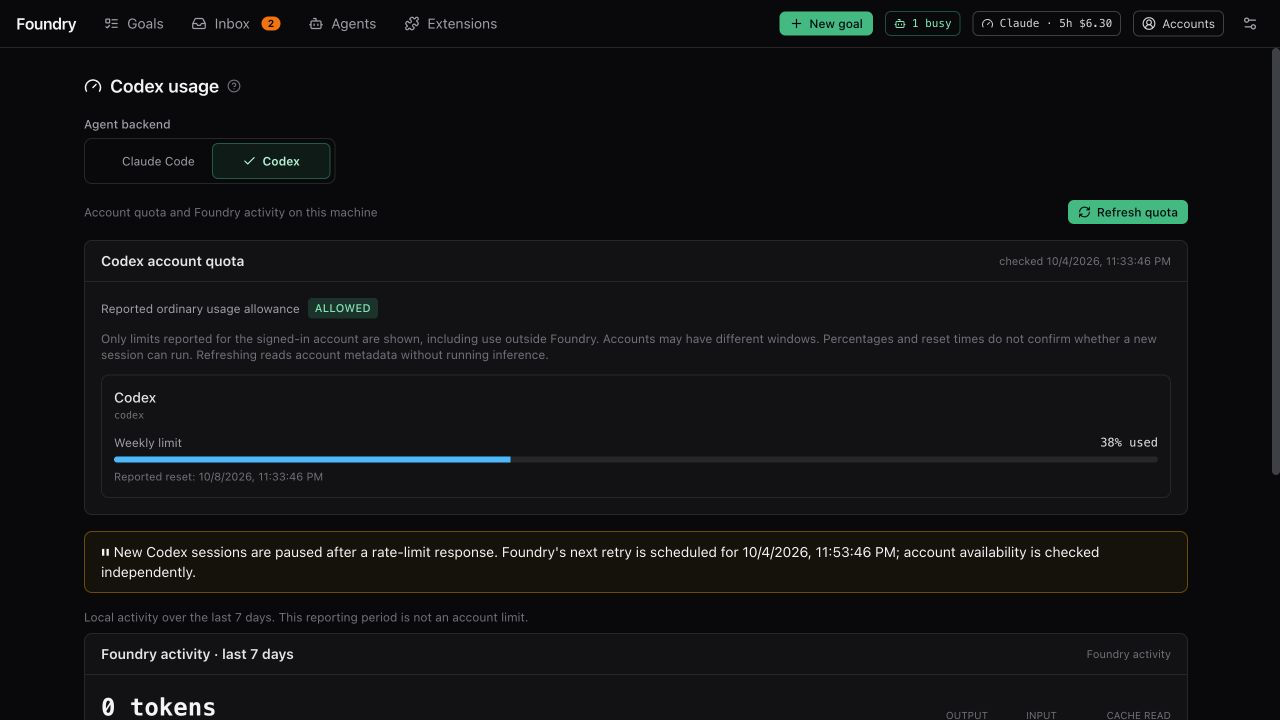
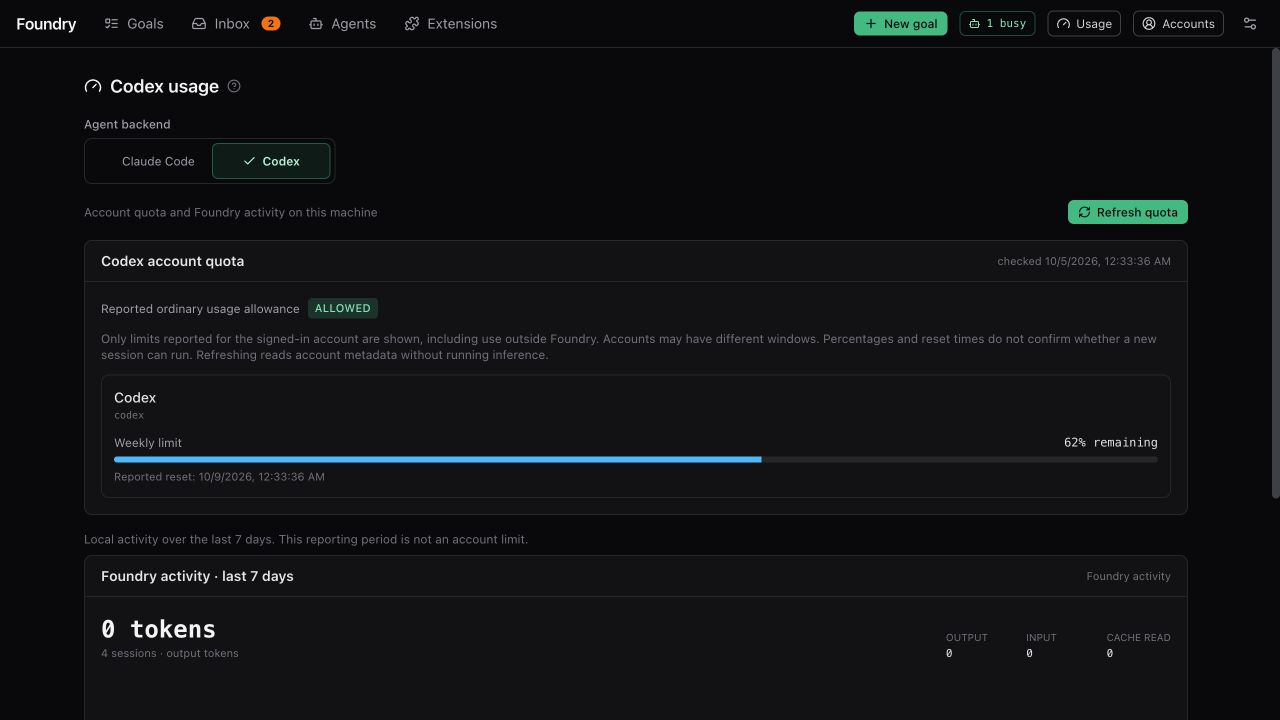
docs: refresh shared workflow guides and demo screenshots

diff --git a/scripts/demo.ts b/scripts/demo.ts
@@ -346,6 +346,7 @@ class DemoRunner implements ClaudeRunner {
     const label = spec.label ?? '';
     let structuredOutput: unknown = null;
     if (label.startsWith('classify nature')) structuredOutput = { nature: 'code' };
+    else if (label.startsWith('planner ')) structuredOutput = { tasks: landingBrief.tasks };
     // a goal with an interview answers in the interview shape; one without gets the bare Brief
     else if (label.startsWith('clarify')) structuredOutput = spec.prompt.includes('dark mode') ? interviewRound : spec.prompt.includes('# Interview before the Brief') ? { questions: [], brief: landingBrief } : landingBrief;
     const title = label.startsWith('attempt') ? label.slice('attempt '.length).replace(/ #\d+.*$/, '') : '';
@@ -361,7 +362,7 @@ class DemoRunner implements ClaudeRunner {
     const result: RunResult = { sessionId, subtype: 'success', isError: false, costUsd: 0.42, numTurns: 7, durationMs: 90_000, usage: null, modelUsage: null, permissionDenials: [], finalText: title ? `Done: ${title}. The change is in place with its tests; bun test passes (14 tests) and the build is clean.` : 'done', structuredOutput, exitCode: 0, pid: null, rateLimit: null, errorMessage: null, skillsUsed: [], toolsUsed: {} };
     const events: RunnerEvent[] = title ? workerEvents(title, result.sessionId!, result, spec.cwd) : [
       { kind: 'hook', name: 'SessionStart:startup', outcome: 'success' },
-      { kind: 'init', sessionId: result.sessionId!, model: 'claude-opus-5', tools: [], raw: {} },
+      { kind: 'init', sessionId: result.sessionId!, model: spec.model ?? null, tools: [], raw: {} },
       { kind: 'text', text: label.startsWith('attempt') ? 'Reading the layout and the existing components, then writing the section and its test.' : 'Exploring the repository…' },
       { kind: 'tool_use', id: 't1', name: 'Read', input: { file_path: 'src/app/layout.tsx' } },
       { kind: 'result', result },
@@ -448,7 +449,11 @@ export async function startDemo(): Promise<{ url: string; goals: Record<string, 
   const repo = join(tmp, 'studio-site');
   await Bun.$`mkdir -p ${repo}`.quiet();
   await makeRepo(repo);
-  const engine = new Engine(defaultConfig(ROOT, { dataDir: join(tmp, 'data'), claudeHome: join(tmp, 'claude-home'), codexHome: join(tmp, 'codex-home'), port: DEMO_PORT, alwaysReviewTasks: false, autoskills: false, log: () => {} }), new DemoRunner());
+  const engine = new Engine(defaultConfig(ROOT, { provider: 'claude', dataDir: join(tmp, 'data'), claudeHome: join(tmp, 'claude-home'), codexHome: join(tmp, 'codex-home'), port: DEMO_PORT, alwaysReviewTasks: false, autoskills: false, log: () => {} }), new DemoRunner());
+  // Keep shared Codex skills isolated as well as its native home.
+  const skills = engine.skillsForProvider('codex');
+  skills.paths.agentsSkillsDir = join(tmp, '.agents', 'skills');
+  skills.paths.agentsLock = join(tmp, '.agents', '.skill-lock.json');
   // the completion's graph refresh reports graphify and gitnexus as run, without touching this machine's tools
   engine.graphRefreshDeps = { which: (n) => `/usr/local/bin/${n}`, exec: async () => ({ code: 0, stdout: '', stderr: '' }) as never };
   const server = startServer(engine, { webDist: join(ROOT, 'apps/web/dist') });
@@ -473,7 +478,7 @@ export async function startDemo(): Promise<{ url: string; goals: Record<string, 
   await waitFor(() => ['done', 'over_delivered'].includes(state(done.id)));
   await recordMergedDelivery(engine, done.id);
   const interview = await engine.createGoal({ prompt: 'Add a dark mode toggle to the settings page', repoPath: repo, interview: 'always', workflow: { pace: 'fast' } });
-  const brief = await engine.createGoal({ prompt: 'A landing page for our game studio', title: 'Studio landing page', repoPath: repo, interview: 'never', workflow: { pace: 'fast' } });
+  const brief = await engine.createGoal({ prompt: 'A landing page for our game studio', title: 'Studio landing page', provider: 'codex', repoPath: repo, interview: 'never', workflow: { pace: 'fast' } });
   const milestone = await engine.createGoal({ prompt: 'Studio site: hero and value cards', title: 'Studio site — first look', repoPath: repo, brief: briefFrom(landingBrief, landingBrief.tasks.slice(0, 3)) as never, workflow: { pace: 'fast' } });
   const running = await engine.createGoal({
     prompt: 'Add CSV export to the orders page, with the date range the user is looking at.',

diff --git a/docs/develop/codex-validation.md b/docs/develop/codex-validation.md
@@ -1,6 +1,6 @@
 # Codex integration validation
 
-This record retains the PR #52 baseline and records the post-merge account-discovery and skill-catalog follow-up. It describes evidence for the shared Claude/Codex implementation, not a guarantee that every account, native CLI version or container host behaves identically. Current setup and capability limits are in [the operator guide](../operate/codex.md).
+This record retains the PR #52 baseline and records the post-merge account-discovery, skill-catalog and shared-interface follow-ups. It describes evidence for the shared Claude/Codex implementation, not a guarantee that every account, native CLI version or container host behaves identically. Current setup and capability limits are in [the operator guide](../operate/codex.md).
 
 ## Repeatable checks
 
@@ -22,7 +22,7 @@ The full test command includes package, CLI and web regressions; plain `bun test
 - The documentation/UI/pause follow-up passed **540 tests, 0 failures, 2,824 assertions across 87 files**, plus backend/frontend type checking and the production web build. The existing Vite large-chunk warning remains. Generated references are unchanged after regeneration; all 61 Markdown files checked have valid local file links.
 - The pre-documentation/UI baseline (`4c88e2b`) passed 536 tests with 2,797 assertions, type checking and the production web build. Its focused Linux container run passed 54 tests with 283 assertions across eight files.
 - Regression fixtures cover immutable goal providers, replay/migration, independent native accounts and login races, shared concurrency, provider-specific quota pauses, weekly-only/custom/unknown quota windows, captured presets and explicit follow-up overrides, model discovery/fallback, MCP permissions and recovery, native plugins, external history, structured output, resume and owned process cleanup.
-- Native smoke checks exercised ChatGPT account/quota reads and structured new/resumed sessions with host CLI `0.158.0-alpha.2`. Native plugin list/install/refresh/remove checks passed in an isolated local fixture marketplace on the host and Docker-pinned `0.160.0` CLI. A metadata-only account check confirmed a weekly-only account shape (two 10,080-minute groups, no short window) without capturing identity or usage percentages. Populated external history uses protocol fixtures; the native history smoke covered an isolated empty home. The Docker build pins the latter version; this does not imply every future CLI protocol is compatible.
+- Native smoke checks exercised ChatGPT account/quota reads and structured new/resumed sessions with host CLI `0.158.0-alpha.2`. Native plugin list/install/refresh/remove checks passed in an isolated local fixture marketplace on the host and Docker-pinned `0.160.0` CLI. A metadata-only account check confirmed a weekly-only account shape (two 10,080-minute groups, no short window) without capturing identity or usage percentages. At this baseline, populated external history used protocol fixtures and the native history smoke covered an isolated empty home; see the terminal-handshake follow-up below for the later populated native listing check. The Docker build pins the latter version; this does not imply every future CLI protocol is compatible.
 - Browser checks use temporary repositories and fixture identities/quota. Guide screenshots show examples, not a measurement of a personal account. The UI follow-up checks Setup, Settings, Extensions, Usage and New goal with the shared backend selector, native keyboard navigation and padded select arrows in light/dark themes and at narrow widths.
 - The UI follow-up also adds provider-specific health pause data and verifies notification names/links against mixed-provider and legacy events. Retry times are not described as guaranteed account resets.
 
@@ -34,6 +34,16 @@ The full test command includes package, CLI and web regressions; plain `bun test
 - **24 real git skill installations** succeeded in disposable native homes: eight Matt Pocock skills plus frontend-design, webapp-testing, Impeccable and the appropriate skill-creator for each backend. Checks verified SKILL.md and the exact installed source marker path. No downloaded skill scripts were executed; this validates installation and dependencies documented by inspection, not every skill’s runtime workflow.
 - Upstream snapshots: `mattpocock/skills` at `24fe0ef7737efae15c87225755e9f6f5965e4888`, `anthropics/skills` at `8a1541c4a3ffa5a20a5a91de0dcf3f0bab1d1ef4`, `openai/skills` at `49f948faa9258a0c61caceaf225e179651397431`; Impeccable uses the native `.claude/skills/impeccable` and `.agents/skills/impeccable` directories. [Upstream removal](https://github.com/mattpocock/skills/commit/daa01d8aa68ad5c61b68970ec2018d0ce9567be6) explains the removed merge skill. Graphify’s current upstream CLI advertises `--platform codex`; its system-level installer was not run on the personal machine.
 - Browser checks confirmed Setup’s eight-skill bundle and built-in Merger description, the Codex Graphify command and OpenAI skill-creator catalog entry. The refreshed Setup screenshot uses demonstration account data. The compatibility audit and migration advice are in the [operator guide](../operate/codex.md#skill-catalog-compatibility) and bilingual [settings guide](../guide/settings.md#skill-compatibility).
+
+### Shared interface and terminal history follow-up (2026-10-05)
+
+- Final validation: **547 tests passed, 0 failed, 2,873 assertions across 89 files**. Backend/frontend type checking and production build passed; generated references are unchanged. An earlier run started before the new Agents screenshot existed and observed a delivery-test timeout with subsequent assertion failures. After capturing the screenshot, the delivery module passed 23 tests independently and the complete suite passed without changing delivery code. No unproven delivery root cause is assigned. The existing Vite large-chunk warning remains.
+
+- Fixed a native handshake mismatch: Codex CLI 0.160.0 reports `Codex Desktop/0.160.0` in the desktop environment but `foundry_session_monitor/0.160.0` from an ordinary terminal. Recognize the exact caller name as well as official CLI/desktop names; retain the minimum-version guard before database-only history reads. The new regression failed before the fix and passes after it. Model discovery uses the same parser for its own caller name.
+- A native read-only smoke with the desktop-originator override removed returned **30 recent Codex sessions, no warning**. Only counts, provider and unknown-process-state summaries were printed. No conversations were resumed, inference run or account credentials changed. Populated log pagination remains covered by protocol fixtures.
+- The header is a stable **Usage** entry point for both backends. Native quota bars and accessible meter values express **remaining** allowance; absent or invalid values stay unknown. Regression cases cover both backend summaries, independent pauses, weekly-only accounts and clamped remaining percentages.
+- Accounts keeps both cards in place during initial loading and refresh. With delayed fixture account responses, the Codex card measured the same y=208 and height=540 before, during and after the check. Agents has a shared all/Claude/Codex selector, inventory counts, combined search and keyboard-accessible session titles. Browser checks exercised keyboard engine selection, pointer selection, matching and empty searches, plus dark/light Accounts, Agents and Usage views; no browser console errors were recorded.
+- README How it works and both guide languages use refreshed demonstration screenshots. The seeded demo now includes a Codex Brief and isolates the shared Codex skills directory before creating goals. Screenshots contain fixture identities/quota/sessions only.
 
 ### Timing observations
 

diff --git a/docs/guide/costs-and-usage.md b/docs/guide/costs-and-usage.md
@@ -6,9 +6,9 @@
 
 ## Codex accounting
 
-**Codex account quota** reads the signed-in ChatGPT account through the native CLI, separately from local activity totals. It shows every returned quota group with used percentage, window duration and reported reset time. **Refresh quota** reads metadata without inference; ordinary polling uses a 60-second cache. **Reported ordinary usage allowance** is the CLI's explicit allowed/blocked/unknown signal. Percentages and past reset times do not prove recovery. Missing quota or reset data stays unknown; a read failure is shown rather than replaced with zero. Accounts also shows the email and plan when the native CLI supplies them.
+**Codex account quota** reads the signed-in ChatGPT account through the native CLI, separately from local activity totals. It shows every returned quota group with **remaining percentage**, window duration and reported reset time. The blue bar is the remaining allowance: 25% used means 75% remaining. Unknown usage is labelled unknown, never a full allowance. **Refresh quota** reads metadata without inference; ordinary polling uses a 60-second cache. **Reported ordinary usage allowance** is the CLI's explicit allowed/blocked/unknown signal. Percentages and past reset times do not prove recovery. Missing quota or reset data stays unknown; a read failure is shown rather than replaced with zero. Accounts also shows the email and plan when the native CLI supplies them.
 
-There is no fixed five-hour/weekly pair. A weekly-only account shows only **Weekly limit**; accounts that report both windows show **5-hour limit** and **Weekly limit**. Names come from the reported duration, regardless of whether Codex calls the slot primary or secondary. Other durations are shown as returned; unknown duration stays unknown. Absent windows are not shown or filled with zero. Multiple quota groups remain separate. The header uses these same account windows and never assumes `5h`; if several groups are all weekly it shows **2 weekly limits**, for example.
+There is no fixed five-hour/weekly pair. A weekly-only account shows only **Weekly limit**; accounts that report both windows show **5-hour limit** and **Weekly limit**. Names come from the reported duration, regardless of whether Codex calls the slot primary or secondary. Other durations are shown as returned; unknown duration stays unknown. Absent windows are not shown or filled with zero. Multiple quota groups remain separate. The top bar always shows **Usage** for both engines. Its tooltip lists Claude activity and Codex account limits separately; several weekly groups appear as **2 weekly limits**, for example. An amber dot flags a paused/blocked backend or low MiniMax quota. Open Usage to inspect each backend.
 
 Use the **Agent backend** selector to view each provider independently. Counts include only Foundry sessions. **Foundry activity · last 7 days** is a local reporting period, separate from the account limits. It has no quota status or reset countdown. Dollar cost, turn count and skill-invocation telemetry are unavailable in this adapter; unavailable never means free or unused.
 

diff --git a/docs/guide/costs-and-usage.zh.md b/docs/guide/costs-and-usage.zh.md
@@ -6,9 +6,9 @@
 
 ## Codex 用量
 
-**Codex account quota** 通过原生 CLI 读取已登录 ChatGPT 账户的额度，与本机活动统计分开。卡片展示返回的所有额度分组、已用百分比、时间窗口和报告的重置时间。**Refresh quota** 只读元数据，不运行推理；普通轮询缓存 60 秒。**Reported ordinary usage allowance** 忠实显示原生的 allowed／blocked／unknown 信号，不能根据百分比或已过去的重置时间推断恢复。缺失的额度和重置时间保持未知；读取失败不会伪装成零用量。原生 CLI 提供邮箱和订阅方案时，Accounts 也会显示。
+**Codex account quota** 通过原生 CLI 读取已登录 ChatGPT 账户的额度，与本机活动统计分开。卡片展示返回的所有额度分组、**剩余百分比**、时间窗口和报告的重置时间。蓝色条表示剩余额度：已用 25% 就显示剩余 75%。未知用量保持未知，不会显示为满额。**Refresh quota** 只读元数据，不运行推理；普通轮询缓存 60 秒。**Reported ordinary usage allowance** 忠实显示原生的 allowed／blocked／unknown 信号，不能根据百分比或已过去的重置时间推断恢复。缺失的额度和重置时间保持未知；读取失败不会伪装成零用量。原生 CLI 提供邮箱和订阅方案时，Accounts 也会显示。
 
-不预设每个账户都有「五小时＋每周」两种限制。只有周限额的账户只显示 **Weekly limit**；两者都有的账户显示 **5-hour limit** 和 **Weekly limit**。名称根据原生回传的时长判断，primary 或 secondary 都可能是周限额。其他时长按实际数据显示，未知时长保持未知；未回传的窗口不显示、不补零。多个额度分组保持独立，顶栏使用相同的账户数据，不再固定写 `5h`；例如两个分组均为周限额时显示 **2 weekly limits**。
+不预设每个账户都有「五小时＋每周」两种限制。只有周限额的账户只显示 **Weekly limit**；两者都有的账户显示 **5-hour limit** 和 **Weekly limit**。名称根据原生回传的时长判断，primary 或 secondary 都可能是周限额。其他时长按实际数据显示，未知时长保持未知；未回传的窗口不显示、不补零。多个额度分组保持独立，顶栏统一显示 **Usage**，悬停提示分别列出 Claude 活动和 Codex 账户额度；例如两个分组均为周限额时显示 **2 weekly limits**。某个后端暂停或受限、或 MiniMax 额度偏低时显示琥珀色圆点。点击进入 Usage 后再分别查看两种后端。
 
 通过 **Agent backend** 分别查看两种后端的用量，仅统计 Foundry 启动的会话。**Foundry activity · last 7 days** 只表示本机最近七天的活动统计，与账户额度分开，不显示配额状态或重置倒计时。当前适配器不提供美元费用、模型回合数及技能调用记录；“不可用”不代表免费或未使用。
 

diff --git a/README.md b/README.md
@@ -13,7 +13,7 @@ English · [中文](./README.zh.md)
 
 <br>
 
-<img src="docs/guide/images/goals.png" alt="The Foundry goals list: six goals, one in each state — running, blocked, waiting for a look, waiting for Brief approval, clarifying, done — each with its tasks and cost against its budget" width="900">
+<img src="docs/guide/images/goals.png" alt="Foundry goals across Claude Code and Codex: progress, backend, and the controls available for each goal" width="900">
 
 </div>
 
@@ -40,14 +40,16 @@ Foundry does that part.
 
 ## How it works
 
+One workflow for **Claude Code and Codex**. Connect the native accounts independently in **Accounts**, then choose the backend for each new goal. The screenshots below use demonstration data.
+
 <table>
 <tr>
 <td width="50%" valign="top">
 
 **[1 · Describe it](docs/guide/your-first-goal.md#the-new-goal-form)**<br>
-Press **New goal**, pick the project folder and write what you want. Code, documents, research, images or video.
+Press **New goal**, choose **Claude Code** or **Codex**, select its model preset, and describe the result. Pick a project folder when you are ready to start.
 
-<img src="docs/guide/images/new-goal.png" alt="The New goal form: goal kinds Auto, Code, Documents, Research, Images and Video, and the goal text">
+<img src="docs/guide/images/new-goal.png" alt="New goal with the shared backend selector, Codex selected, goal types and view options">
 
 </td>
 <td width="50%" valign="top">
@@ -63,9 +65,9 @@ Only what the repository can't settle, each with the reason and a recommendation
 <td width="50%" valign="top">
 
 **[3 · Approve the Brief](docs/guide/approving-the-brief.md)**<br>
-One page with the plan in plain words. Change what you want, then **Approve & run**.
+Review the plan, tasks and acceptance checks. Change what you want, then **Approve & run**. Codex uses time and attempt limits; Claude also supports USD budgets.
 
-<img src="docs/guide/images/brief.png" alt="The Brief of a studio landing page: its understanding, the pull request title and a style question with colour palettes">
+<img src="docs/guide/images/brief.png" alt="A Codex goal’s Brief with its understanding, pull request title and approval controls">
 
 </td>
 <td width="50%" valign="top">
@@ -81,7 +83,7 @@ The goal pauses, the preview is already running. Press **Continue**, or say what
 <td width="50%" valign="top">
 
 **[5 · Let it run](docs/guide/while-it-runs.md)**<br>
-Tasks run in parallel when they can, each one checked before it joins the rest. Watch it live, or walk away.
+Tasks run in parallel when they can, each checked before it joins the rest. **Agents** brings both engines’ sessions together; **Usage** keeps their limits separate.
 
 <img src="docs/guide/images/goal-running.png" alt="A running goal: Clarify and Brief done, Run in progress, acceptance checks and the folder where the work is">
 

diff --git a/docs/operate/codex.md b/docs/operate/codex.md
@@ -65,6 +65,12 @@ Saved settings override the corresponding environment defaults. Configured binar
 - Codex JSONL reports token usage but no USD cost. Foundry reads ChatGPT account identity and quota separately through the native app-server. Usage shows all returned quota buckets, known windows and reported reset times beside local activity. Refresh reads account metadata without inference; ordinary polling caches it for 60 seconds. Missing fields stay unknown and only the explicit ordinary-usage allowance reports availability. A percentage or past reset time never proves recovery. Foundry marks dollar cost as unavailable. **USD caps cannot be enforced for Codex.** Use duration, concurrency, attempts and tool-call limits. The existing turn-cap setting bounds tool calls for Codex; it is not a model-turn count. CLI/API legacy numeric cost fields remain zero when cost is unreported.
 - Structured output, live tool events, transcript reopening, session resume, cancellation, wall-clock timeout and idle timeout use the native Codex CLI protocol. On POSIX, cancellation and shutdown signal the owned process group and wait for forced cleanup of tool/MCP descendants. MCP manager shutdown also cancels queued changes and awaits active native processes; model discovery cleans up its sidecars. Foundry MCP denials retain tool names for provider-specific Inbox recovery, without storing arguments.
 
+## Accounts, usage and session discovery
+
+**Accounts → Refresh status** rechecks both native accounts from the top of the page while retaining the cards. The top-bar **Usage** link is shared; its tooltip keeps Claude activity and Codex limits separate. Codex meters show the percentage **remaining**, with the blue bar representing that amount. Missing windows and percentages stay unknown.
+
+**Agents** lists recent Foundry and external sessions from both backends, with **All engines**, **Claude Code** and **Codex** filters and a search field. Native Codex history requires CLI 0.158 or newer. The version handshake accepts both official originator names and Foundry's exact client name used in ordinary terminals. After upgrading this fix, restart a source-run server that previously reported an old-CLI warning despite having a newer CLI. External process status remains unknown; opening a session only reads its history.
+
 ## Skill catalog compatibility
 
 The catalog is selected before status, installation, updates and workflow hints. `providers` restricts a recipe to its supported backend(s); `providerSources` supplies a complete native source recipe when the same skill supports both. Omitted fields preserve the shared behavior. Claude plugin recipes remain excluded from the Codex skill catalog. Explicit git paths are authoritative: a missing path fails before replacing any existing skill, rather than falling back to another platform’s same-named directory.

diff --git a/docs/guide/your-first-goal.md b/docs/guide/your-first-goal.md
@@ -15,6 +15,8 @@
 
 Open **Accounts** in the header to see Claude Code and Codex separately. **Sign in to Codex** uses ChatGPT device authorization; enter the displayed code on the linked page. **Sign in to Claude Code** uses Claude's native login. Credentials belong to the local CLI: signing out here also signs out that CLI, but does not sign out the other provider. Foundry refuses sign-in and sign-out while work is active, including requests from the CLI. Codex supports ChatGPT sign-in only; API-key login is not used. The account card shows the native email and plan when available. Installing a CLI while Foundry is running is detected on the next account check; Setup and Accounts use the current executable. Changes to a configured binary path or native home still require a restart.
 
+Use **Refresh status** at the top of Accounts to recheck both native accounts. The existing cards stay visible during the check; the reserved status row reports loading or an error without replacing the page.
+
 On **New goal**, choose **Agent backend** before creating the goal. Both providers can run in one Foundry instance. The selected backend stays fixed through clarification, workers, retries, reviews and delivery assistance; sessions never resume on another provider. Each backend has independent model presets under **Models**. Codex captures the preset's role models, reasoning efforts and fallback order when you create the goal.
 
 For Codex, budget presets cover time, attempts and concurrency. No USD budget is available. **Accounts** lists the current integration limits before you start.

diff --git a/docs/guide/your-first-goal.zh.md b/docs/guide/your-first-goal.zh.md
@@ -15,6 +15,8 @@
 
 点击顶栏 **Accounts**，分别查看 Claude Code 和 Codex。**Sign in to Codex** 使用 ChatGPT 设备授权：在链接页面输入显示的验证码；**Sign in to Claude Code** 使用 Claude 原生登录。凭据与本机 CLI 共用，在这里退出也会退出对应 CLI，但不会影响另一个提供商。执行期间不能登录或退出，CLI 请求也遵守同样的保护。Codex 只支持 ChatGPT 登录，不使用 API-key 模式；原生 CLI 提供邮箱和方案时会显示在账户卡片。Foundry 运行期间安装 CLI 后，下次账户检查即可识别；Setup 与 Accounts 都使用当前可执行文件。修改配置中的程序路径或原生配置目录仍需重启。
 
+使用 Accounts 顶部的 **Refresh status** 重新检查两个原生账户。检查期间保留现有卡片，预留状态行显示加载或错误，不会用加载文字替换整个页面。
+
 **Setup** 可选择 **Claude Code** 或 **Codex**；检查、登录、修复及技能安装均针对所选后端。**Create your first goal** 会保留该选择。
 
 创建任务时，在 **Agent backend** 选择后端。同一 Foundry 实例可以运行两种后端；选定后，澄清、执行、重试、审核等会话始终使用该后端，不会把会话交给另一种 CLI 恢复。两种后端在 **Models** 下各有独立预设。Codex 创建任务时会保存预设中的各角色模型、推理强度和备用模型顺序。

diff --git a/docs/guide/while-it-runs.md b/docs/guide/while-it-runs.md
@@ -191,6 +191,10 @@ Every file the goal changed compared with where it started, with lines added (gr
 
 ## The Agents page
 
+![Claude Code and Codex sessions — demonstration data](images/agents.png)
+
+Use **All engines**, **Claude Code** or **Codex** to filter the list. Counts beside each engine refer to the loaded last-24-hour inventory. **Search sessions** matches titles, goal names, models, directories and session IDs within that engine. The list refreshes automatically; external sessions remain read-only.
+
 **Agents** combines Foundry-owned sessions with recent native Claude Code and Codex history. Each row identifies its backend; retrieval is bounded, so this is not an inventory of every conversation ever created.
 
 - **Foundry agents**: sessions Foundry started for your goals, with the goal they belong to. These can be stopped with the ■ button.
